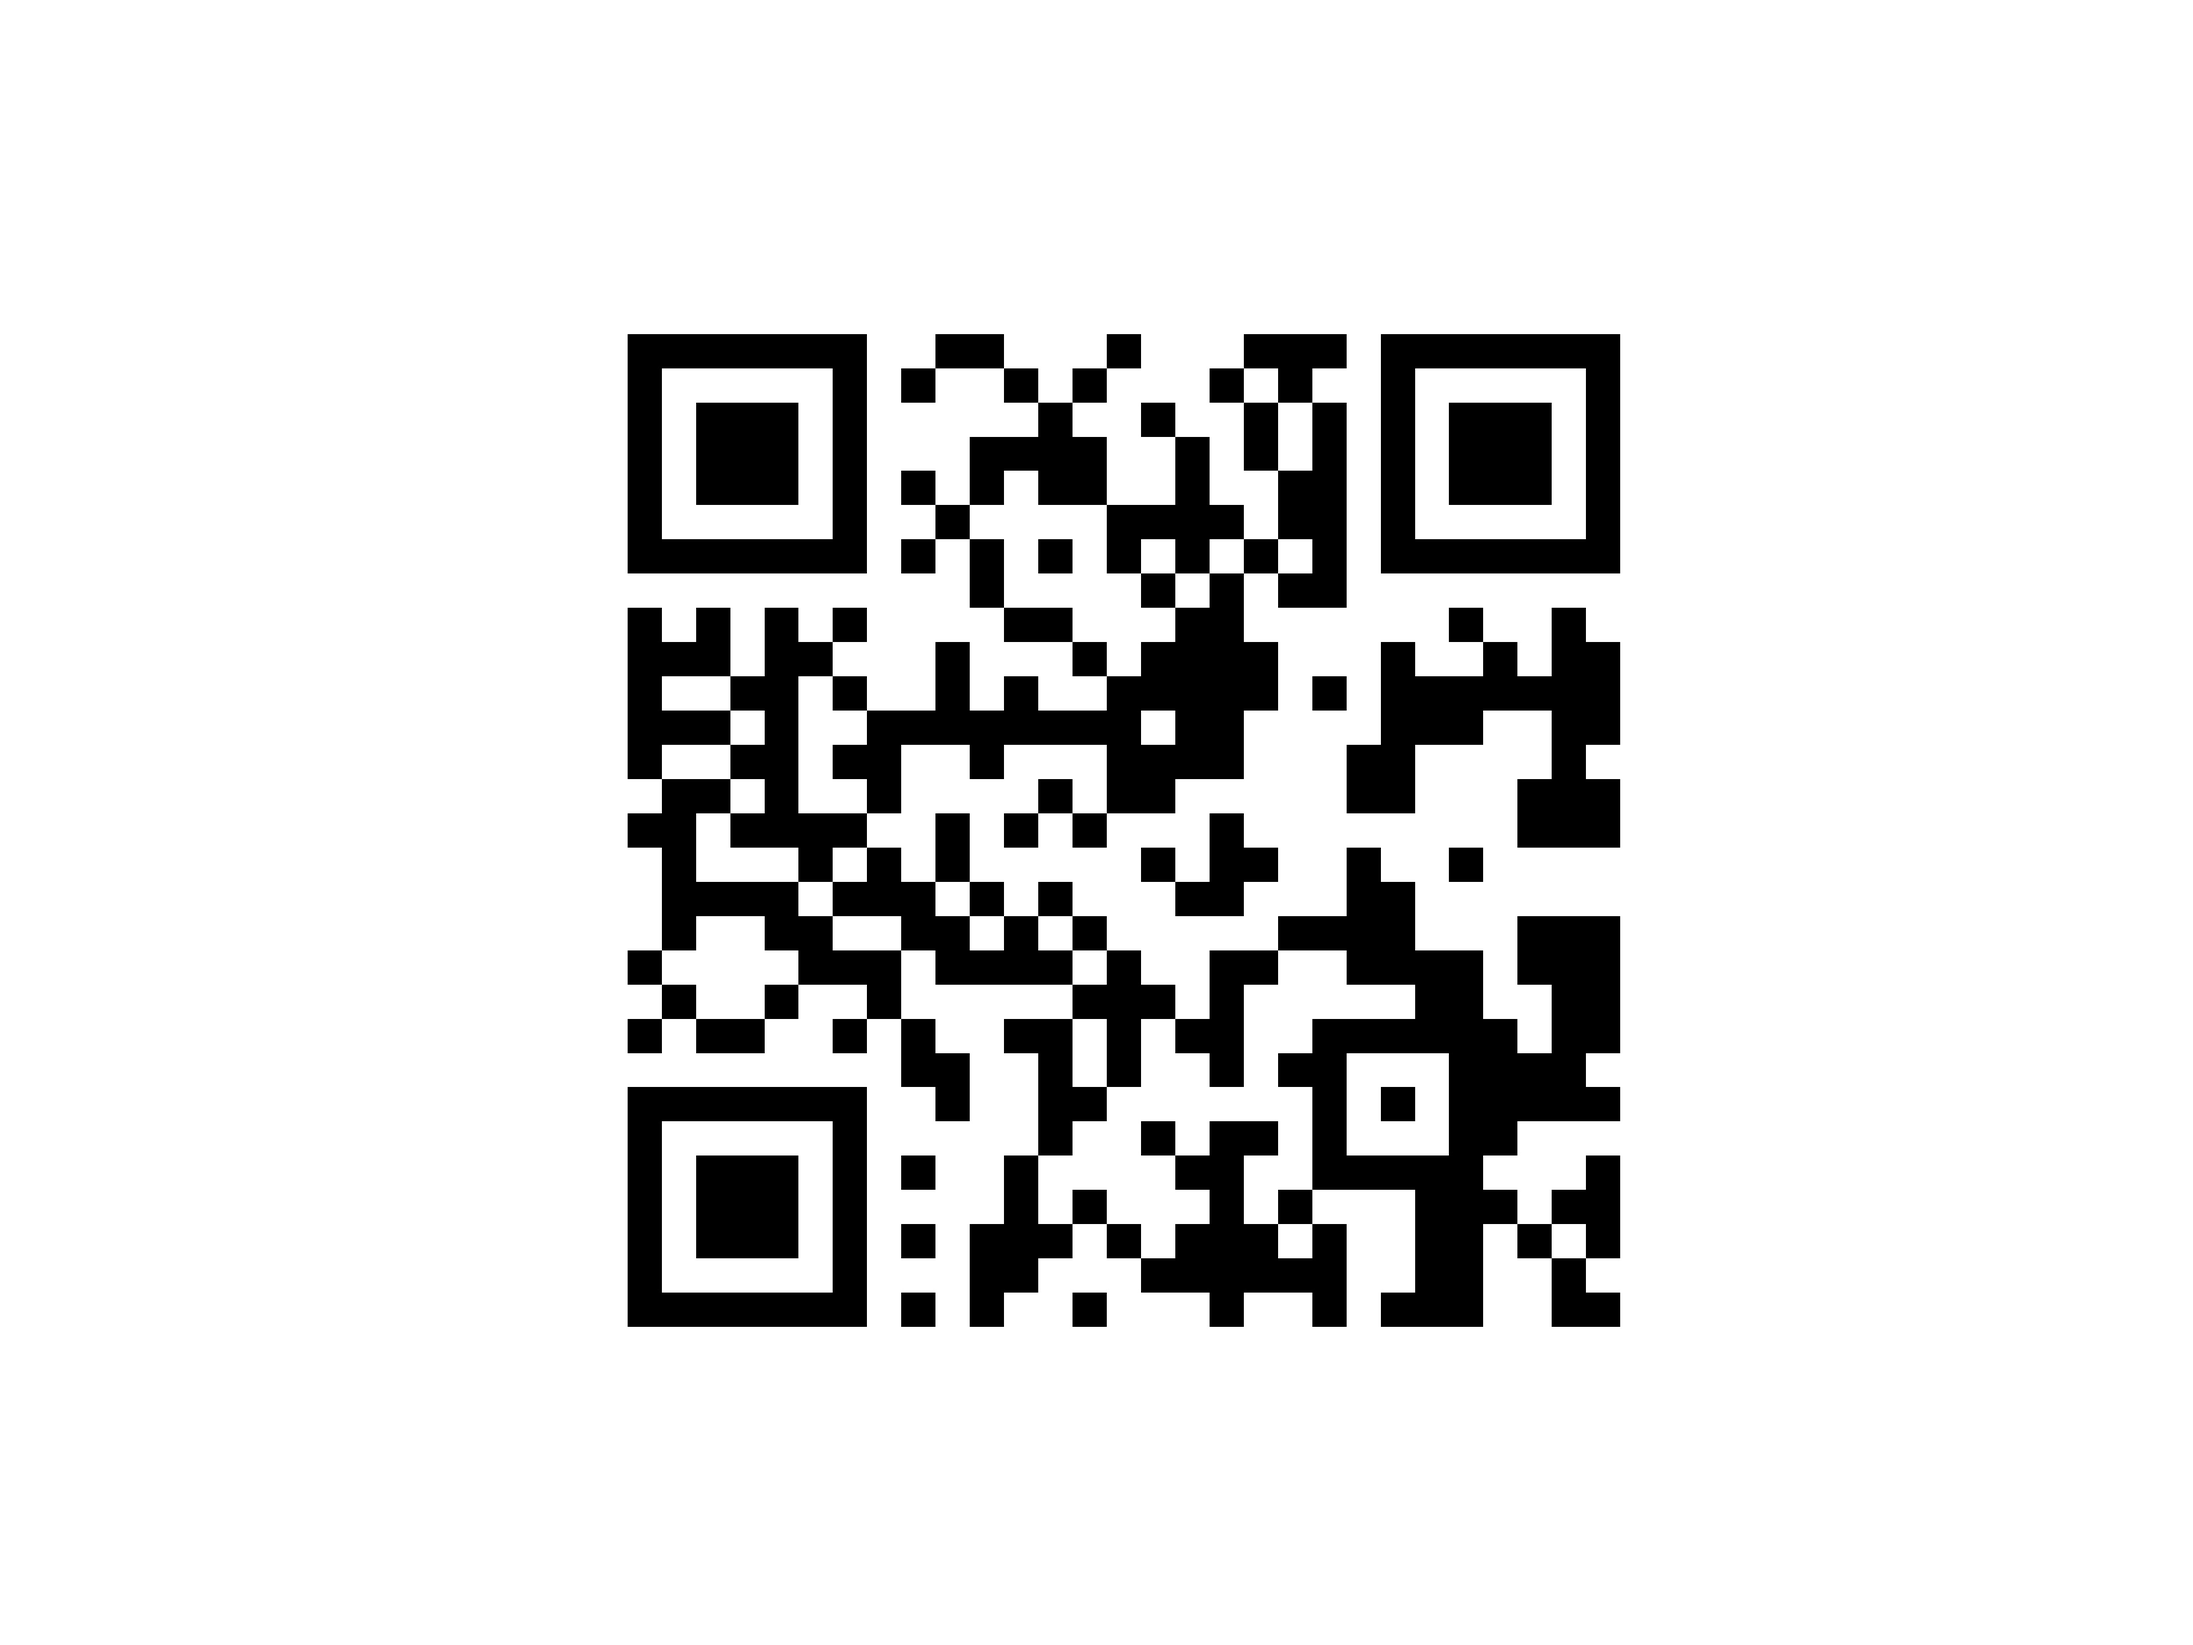
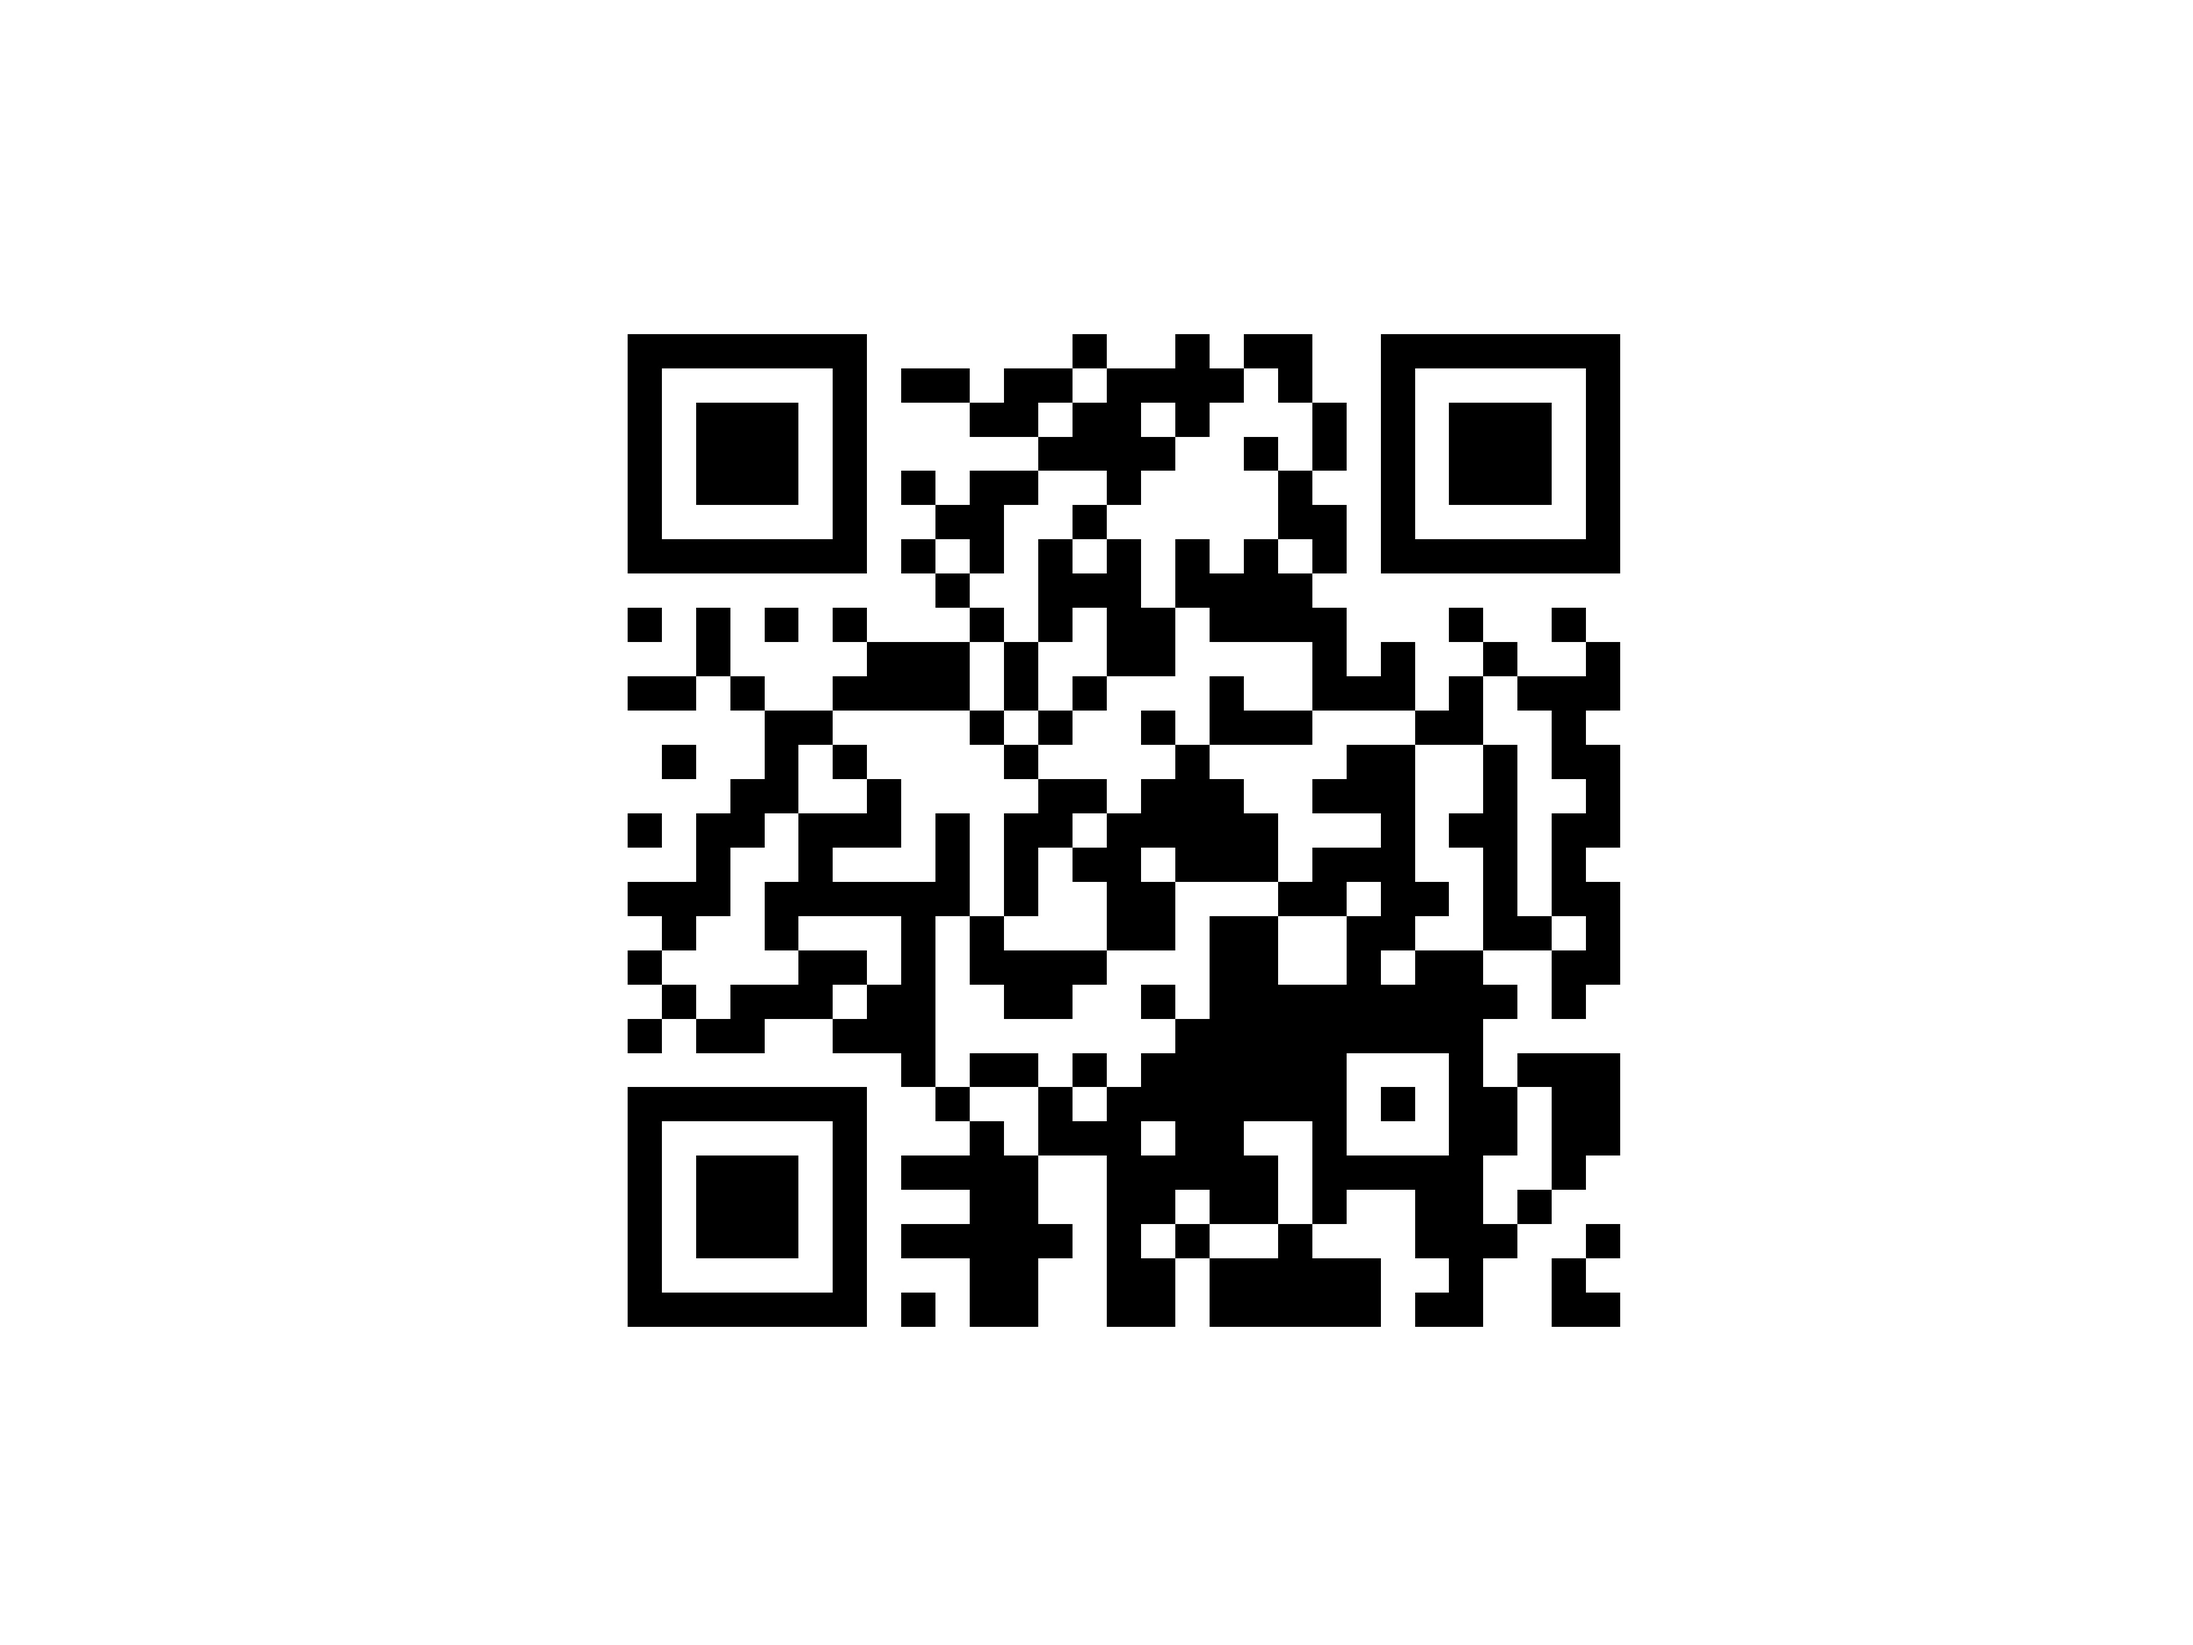
change function-- display()

Changed region(s): [[0.2812, 0.1875, 0.75, 0.8125], [0.5938, 0.2812, 0.625, 0.3125], [0.5938, 0.1875, 0.625, 0.2188]]

diff --git a/QRcode.py b/QRcode.py
@@ -1,6 +1,5 @@
 import os
 from bisect import bisect_left
-from sys import version
 
 import numpy as np
 from matplotlib import pyplot as plt
@@ -240,7 +239,7 @@ class QrCode:
                 self.version, self.err_corr, self.data_list)
         self.fill_data_err_corr_code(self.data_cache, mask_pattern)
 
-    def display(self, save_dir=None):
+    def display(self, save_dir=None, name=None):
 
         array = np.pad(self.modules, ((self.border, self.border), (self.border, self.border)),
                        "constant", constant_values=((False, False), (False, False)))
@@ -261,18 +260,40 @@ class QrCode:
         ax.spines['left'].set_visible(False)
 
         if save_dir is not None:
-            plt.savefig(os.path.join(save_dir, "img1.jpg"), dpi=600)
+            plt.savefig(os.path.join(save_dir, name), dpi=600)
         plt.show()
 
 
 if __name__ == "__main__":
     # q = QrCode()
+    import time
     q = QrCode()
-    q.add_data("""Finally finished CS258 project!!!""")
+    q.add_data("""Beautiful is better than ugly.
+Explicit is better than implicit.
+Simple is better than complex.
+Complex is better than complicated.
+Flat is better than nested.
+Sparse is better than dense.
+Readability counts.
+Special cases aren't special enough to break the rules.
+Although practicality beats purity.
+Errors should never pass silently.
+Unless explicitly silenced.
+In the face of ambiguity, refuse the temptation to guess.
+There should be one-- and preferably only one --obvious way to do it.
+Although that way may not be obvious at first unless you're Dutch.
+Now is better than never.
+Although never is often better than *right* now.
+If the implementation is hard to explain, it's a bad idea.
+If the implementation is easy to explain, it may be a good idea.
+Namespaces are one honking great idea -- let's do more of those!""")
+    begin = time.time()
     q.make()
+    end = time.time()
+    print("Execution time: {}".format(end - begin))
     print(q.version)
-    print(q.modules.shape)
-    q.display(save_dir=os.path.dirname(os.path.abspath(__file__)))
+    q.display(save_dir=os.path.dirname(os.path.abspath(__file__)), name="zen.jpg")
+    # q.display()
     # import qrcode
     # q = qrcode.QRCode()
     # q.add_data("""Through a flowery sea of dreams they go.""")

diff --git a/utils.py b/utils.py
@@ -5,8 +5,7 @@ import numpy as np
 import err_corr_code
 from constants import *
 
-PAD1 = 0b11101100
-PAD2 = 0b00010001
+
 
 
 def to_bytestring(data: str):
@@ -86,13 +85,7 @@ class QrData:
             buffer.put(c, 8)
 
 
-G15 = (
-    (1 << 10) | (1 << 8) | (1 << 5) | (1 << 4) | (1 << 2) | (1 << 1) |
-    (1 << 0))
-G18 = (
-    (1 << 12) | (1 << 11) | (1 << 10) | (1 << 9) | (1 << 8) | (1 << 5) |
-    (1 << 2) | (1 << 0))
-G15_MASK = (1 << 14) | (1 << 12) | (1 << 10) | (1 << 4) | (1 << 1)
+
 
 def BCH_digit(data):
     """count bits in binary representation of data

diff --git a/constants.py b/constants.py
@@ -1,6 +1,16 @@
 MODE_INDICATOR = 4
 
 BITS_CHAR_COUNT_INDICATOR = lambda v: 8 if v <= 9 else 16
+PAD1 = 0b11101100
+PAD2 = 0b00010001
+
+G15 = (
+    (1 << 10) | (1 << 8) | (1 << 5) | (1 << 4) | (1 << 2) | (1 << 1) |
+    (1 << 0))
+G18 = (
+    (1 << 12) | (1 << 11) | (1 << 10) | (1 << 9) | (1 << 8) | (1 << 5) |
+    (1 << 2) | (1 << 0))
+G15_MASK = (1 << 14) | (1 << 12) | (1 << 10) | (1 << 4) | (1 << 1)
 
 
 ERROR_CORR_LEVEL = {
